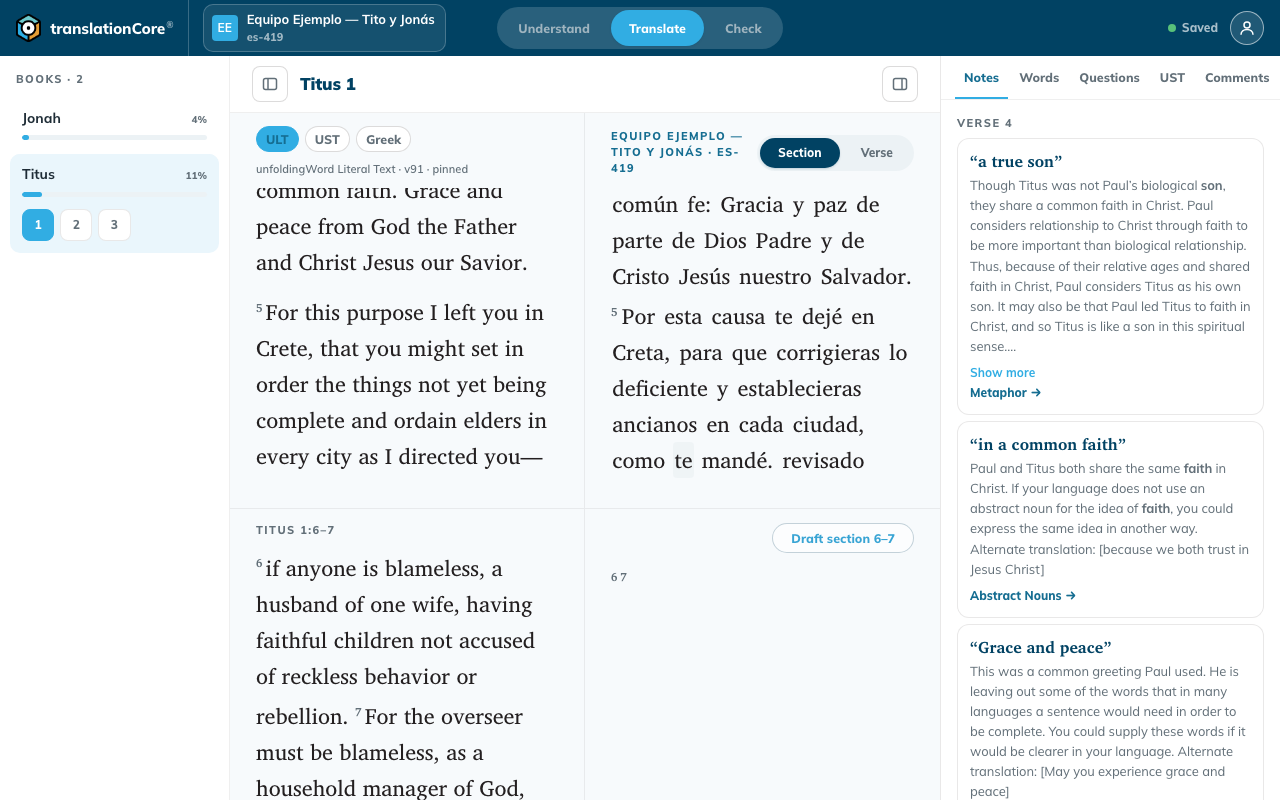
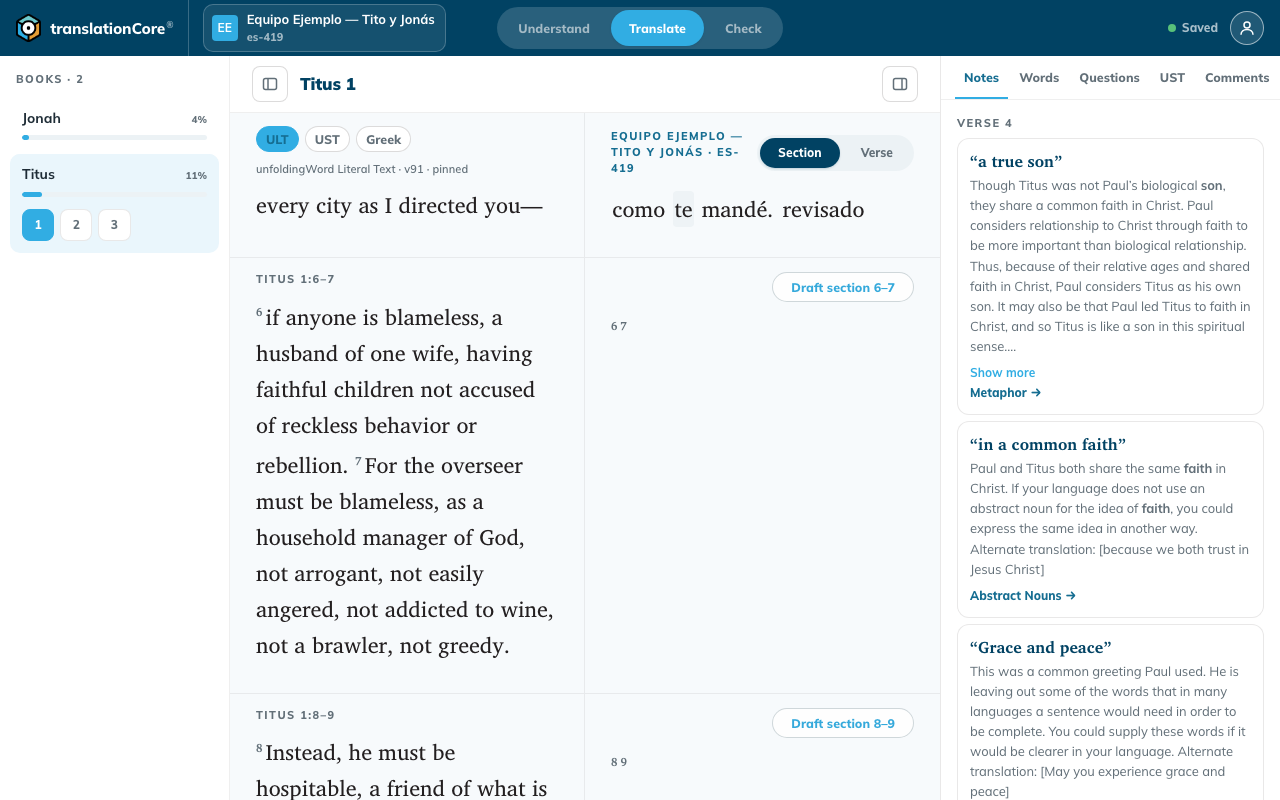
Translate: a source click leaves the helps on an open card (#1057)
The owner answered the PR's first decision on 2026-11-18: while a verse is being edited, a
click on the source must not move the helps filter. A press outside a verse card closes it
(its blur) before the click lands, so the click-time check saw no card and moved the filter
to the source verse clicked. The chapter now notes, on each press, whether a card was open,
and a click on the source passes that, or a card still open at the click, to
PickedUnit::clicked. The blur, its save and the translation-side click are unchanged; whether
a verse card should stay open on a press outside it is #1061.

The Verse-mode journey now asserts that the helps stay on verse 4 after a press on the
source while verse 4's card is open, and that a source click with no card open moves them.
The Section-mode journey presses the source with the section card open and checks the helps
after Save. A new journey holds verse 4's save, clicks the source of verse 8, and checks the
helps stay on 8 when the save lands: the "stays after Save" criterion lost its only red
assertion with the old Verse step. DIFFERENCES and JOURNEYS state the rule; screenshots 6c and
7e come from this commit's UI, 7c and 7d from a build of it before the click-time check.

diff --git a/crates/tc-ui/src/views/translate.rs b/crates/tc-ui/src/views/translate.rs
@@ -353,6 +353,11 @@ fn chapter_view(
         let editing = editing.clone();
         Signal::derive(move || editing.with(Editing::is_open))
     };
+    // A press outside a verse card closes it before the click lands (its blur), so a click on
+    // the source asks whether a card was open when its press began (#1057, owner 2026-11-18),
+    // or is open still: a click with no press of its own, such as a script's, reads a stale press.
+    let open_at_press = StoredValue::new(false);
+    let note_press = move |_: web_sys::PointerEvent| open_at_press.set_value(off.get_untracked());
     // #991: the helps follow the open card, and once it closes, the unit it was opened on or the
     // unit clicked last, until another is picked or the person leaves the chapter.
     let picked: RwSignal<Option<PickedUnit>> = RwSignal::new(None);
@@ -435,7 +440,7 @@ fn chapter_view(
                             Callback::new(move |verse: Option<String>| {
                                 let unit = PickedUnit::clicked(
                                     mode.get_untracked(),
-                                    off.get_untracked(),
+                                    open_at_press.get_value() || off.get_untracked(),
                                     &keys,
                                     verse.as_deref(),
                                 );
@@ -485,7 +490,7 @@ fn chapter_view(
     };
     let dropped = dropped_links(runtime.saves().dropped(), open.at.clone());
     view! {
-        <main style=main.to_style()>
+        <main style=main.to_style() on:pointerdown=note_press>
             <div style=bar.to_style()>
                 <IconButton title=t(keys::draft::TOGGLE_RAIL, &[]) on_click=toggle>{rail_icon()}</IconButton>
                 <h2 style=h2.to_style()>{book_id.english_name()}" "{chapter}</h2>

diff --git a/crates/tc-ui/src/app/translate.rs b/crates/tc-ui/src/app/translate.rs
@@ -330,8 +330,8 @@ impl PickedUnit {
     }
 
     /// The unit a click on a section's source or translation picks (#991, #1057): in Section
-    /// mode the section, in Verse mode the `verse` clicked. None while a card is open, so the
-    /// helps stay on the card and keep its unit after Save.
+    /// mode the section, in Verse mode the `verse` clicked. None when `card_open`, so the helps
+    /// stay on the card and keep its unit after Save.
     pub fn clicked(
         mode: UnitMode,
         card_open: bool,

diff --git a/docs/DIFFERENCES.md b/docs/DIFFERENCES.md
@@ -586,10 +586,12 @@ And this (#991, owner 2026-11-10):
 - The helps stay filtered to the section or verse the translator picked. On Translate a click on
   a section's translation filters them without opening its card. A click on its source does the
   same in Section mode, and in Verse mode filters them to the verse clicked (#1057, owner
-  2026-11-18). After Save, Cancel or a held save the helps stay on that section, or on that
-  verse in Verse mode. tC4's source cell takes no click, and its `editingFocus` follows only an
-  open card, so the helps go back to the whole chapter when it closes. A join keeps them on the
-  section that now holds the verses.
+  2026-11-18). A click on the source while a card is open leaves them on the card's section or
+  verse, also when the press closes a verse card (owner in #1060, 2026-11-18). After Save,
+  Cancel or a held save the helps stay on that section, or on that verse in Verse mode. tC4's
+  source cell takes no click, and its `editingFocus` follows only an open card, so the helps go
+  back to the whole chapter when it closes. A join keeps them on the section that now holds the
+  verses.
 - A story's helps list only the frame in focus: Notes, Words, Questions and, on Translate,
   Comments. tC4 lists the whole story and marks the frame in focus (#331's ruling of
   2026-09-18).

diff --git a/docs/JOURNEYS.md b/docs/JOURNEYS.md
@@ -104,7 +104,8 @@ budget in `docs/PERFORMANCE.md`). Their tC4 tests stay mapped under `specs` in `
   the typed text. The section card fills the row its source sets (#915). A click on a section's
   translation filters the helps to it, and after Save they stay on that section, or on the verse
   in Verse mode (#991, DIFFERENCES). A click on its source does the same; in Verse mode it filters
-  them to the verse clicked (#1057, DIFFERENCES).
+  them to the verse clicked, and while a card is open it leaves them on the card (#1057,
+  DIFFERENCES).
   Choosing BSOJ with `ar_arst` installed or `ru_gl` with `ru_rlob` and `ru_rsob` installed
   shows those Bibles in the source panes, and a pane whose Bible lacks the open book shows
   the pinned English ULT or UST (`ULT`/`UST`) without changing the pane's pin (#1048,
